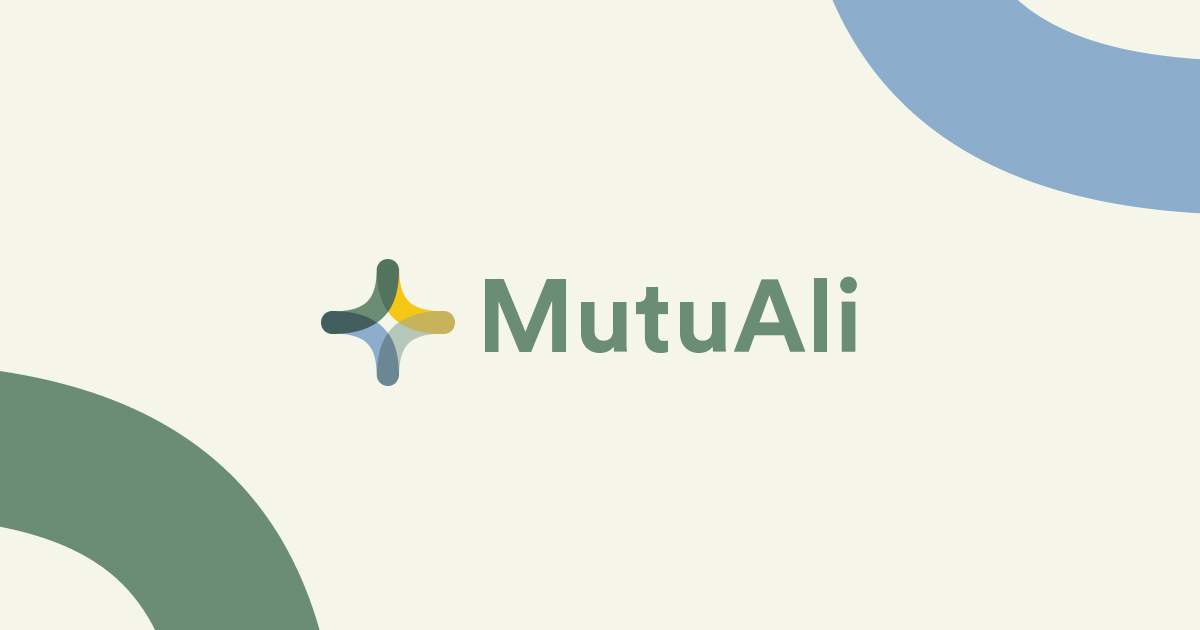
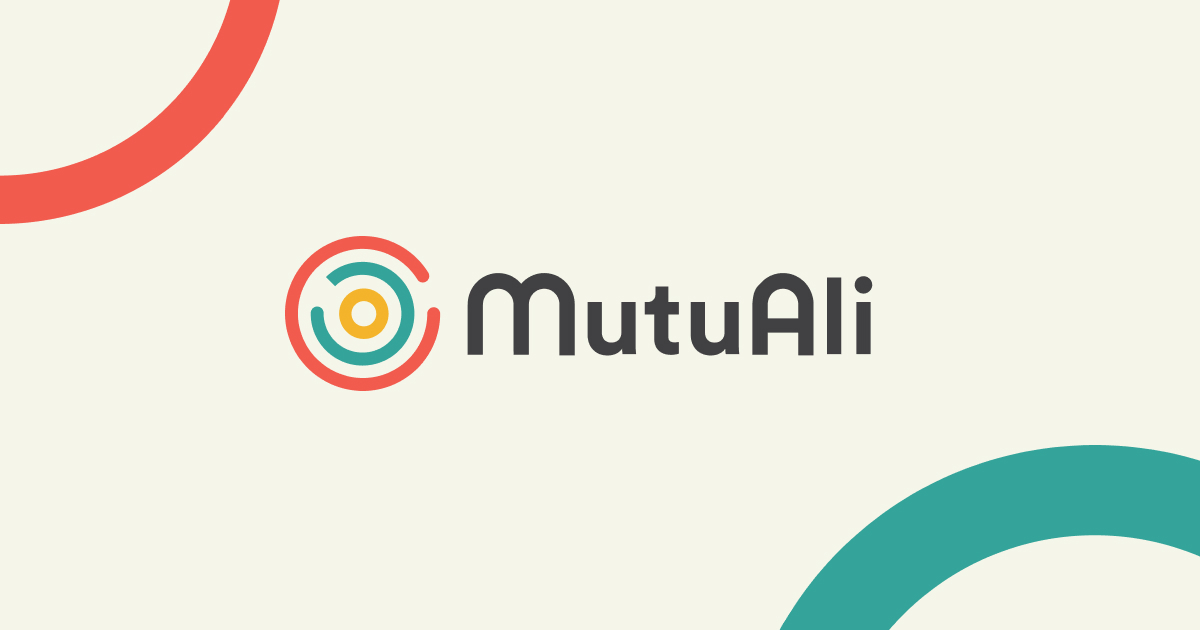
Remplacement des emails erronés, image og, intégration de base termsfeed

diff --git a/YellowDuck.FE/src/scss/components/termsfeed.scss b/YellowDuck.FE/src/scss/components/termsfeed.scss
@@ -1,0 +1,99 @@
+/* Style du plugin TermsFeed - Free Cookie Consent */
+/* Bannière */
+#termsfeed-com---nb {
+  .cc-nb-main-container {
+    background-color: $gray-100;
+    font-family: $font-family-base;
+  }
+
+  .cc-nb-buttons-container {
+    display: flex;
+    flex-wrap: wrap;
+    column-gap: 12px;
+    row-gap: 8px;
+
+    .cc-nb-changep,
+    .cc-nb-okagree,
+    .cc-nb-reject {
+      margin: 0 !important;
+    }
+  }
+}
+
+/* Dialogue */
+#termsfeed-com---preferences-center {
+  & {
+    font-family: $font-family-base;
+  }
+
+  .cc-pc-head-lang select {
+    &:focus {
+      outline: none;
+      box-shadow: 0 0 0 1px $green;
+    }
+  }
+
+  .cc-custom-checkbox input.cc-custom-checkbox {
+    &:focus {
+      outline: none;
+      box-shadow: none;
+      background-color: transparent;
+    }
+
+    &:active {
+      background-color: transparent !important;
+    }
+
+    &:focus-visible {
+      & ~ label:before {
+        background-color: $green;
+      }
+    }
+  }
+
+  .cc-pc-head-close {
+    &:focus {
+      outline: none;
+      border: 0;
+      box-shadow: 0 0 0 1px $green;
+    }
+  }
+
+  .cc-cp-body-tabs-item-link,
+  a {
+    &:focus {
+      outline: none;
+    }
+
+    &:focus-visible {
+      box-shadow: 0 0 0 1px $green;
+    }
+  }
+
+  .cc-cp-foot-save {
+    opacity: 1;
+  }
+}
+
+/* Boutons */
+/* Style général */
+#termsfeed-com---nb .cc-nb-okagree,
+#termsfeed-com---nb .cc-nb-reject,
+#termsfeed-com---nb .cc-nb-changep,
+#termsfeed-com---preferences-center .cc-cp-foot-save {
+  border-radius: 4px;
+  color: $gray-900;
+}
+
+/* Primaire */
+#termsfeed-com---nb .cc-nb-okagree,
+#termsfeed-com---nb .cc-nb-reject,
+#termsfeed-com---preferences-center .cc-cp-foot-save {
+  background-color: $yellow;
+}
+
+/* Outline */
+#termsfeed-com---nb .cc-nb-changep {
+  background-color: transparent;
+  border: 1px solid $gray-900;
+}

diff --git a/YellowDuck.FE/src/scss/app.scss b/YellowDuck.FE/src/scss/app.scss
@@ -5,6 +5,8 @@
 @import "node_modules/bootstrap/scss/bootstrap.scss";
 @import "node_modules/bootstrap-vue/src/index.scss";
 
+@import "./components/termsfeed.scss";
+
 @import "./utilities/_animations.scss";
 @import "./utilities/_extend-cursor-area.scss";
 @import "./utilities/_fab-container.scss";

diff --git a/YellowDuck.Api/BackgroundJobs/SendPayoutsForContractsStarted.cs b/YellowDuck.Api/BackgroundJobs/SendPayoutsForContractsStarted.cs
@@ -61,7 +61,7 @@ namespace YellowDuck.Api.BackgroundJobs
 
                 logger.LogInformation($"New stripe transfer for the contract ({contract.Id})");
 
-                var body = $"Un paiement de {contract.Price.ToString("N2")} $ CA est en route vers le compte en banque du propriétaire. Un délai maximum de sept jours est attendu. Si suite à ce délai l'argent n'est toujours pas déposé, veuillez entrer en communication à l'adresse suivante mutuali@lacantinepourtous.org";
+                var body = $"Un paiement de {contract.Price.ToString("N2")} $ CA est en route vers le compte en banque du propriétaire. Un délai maximum de sept jours est attendu. Si suite à ce délai l'argent n'est toujours pas déposé, veuillez entrer en communication à l'adresse suivante mutuali@cibim.org";
                 await conversationsService.SendMessageAsSystem(contract.Conversation.Sid, body);
             }
         }
